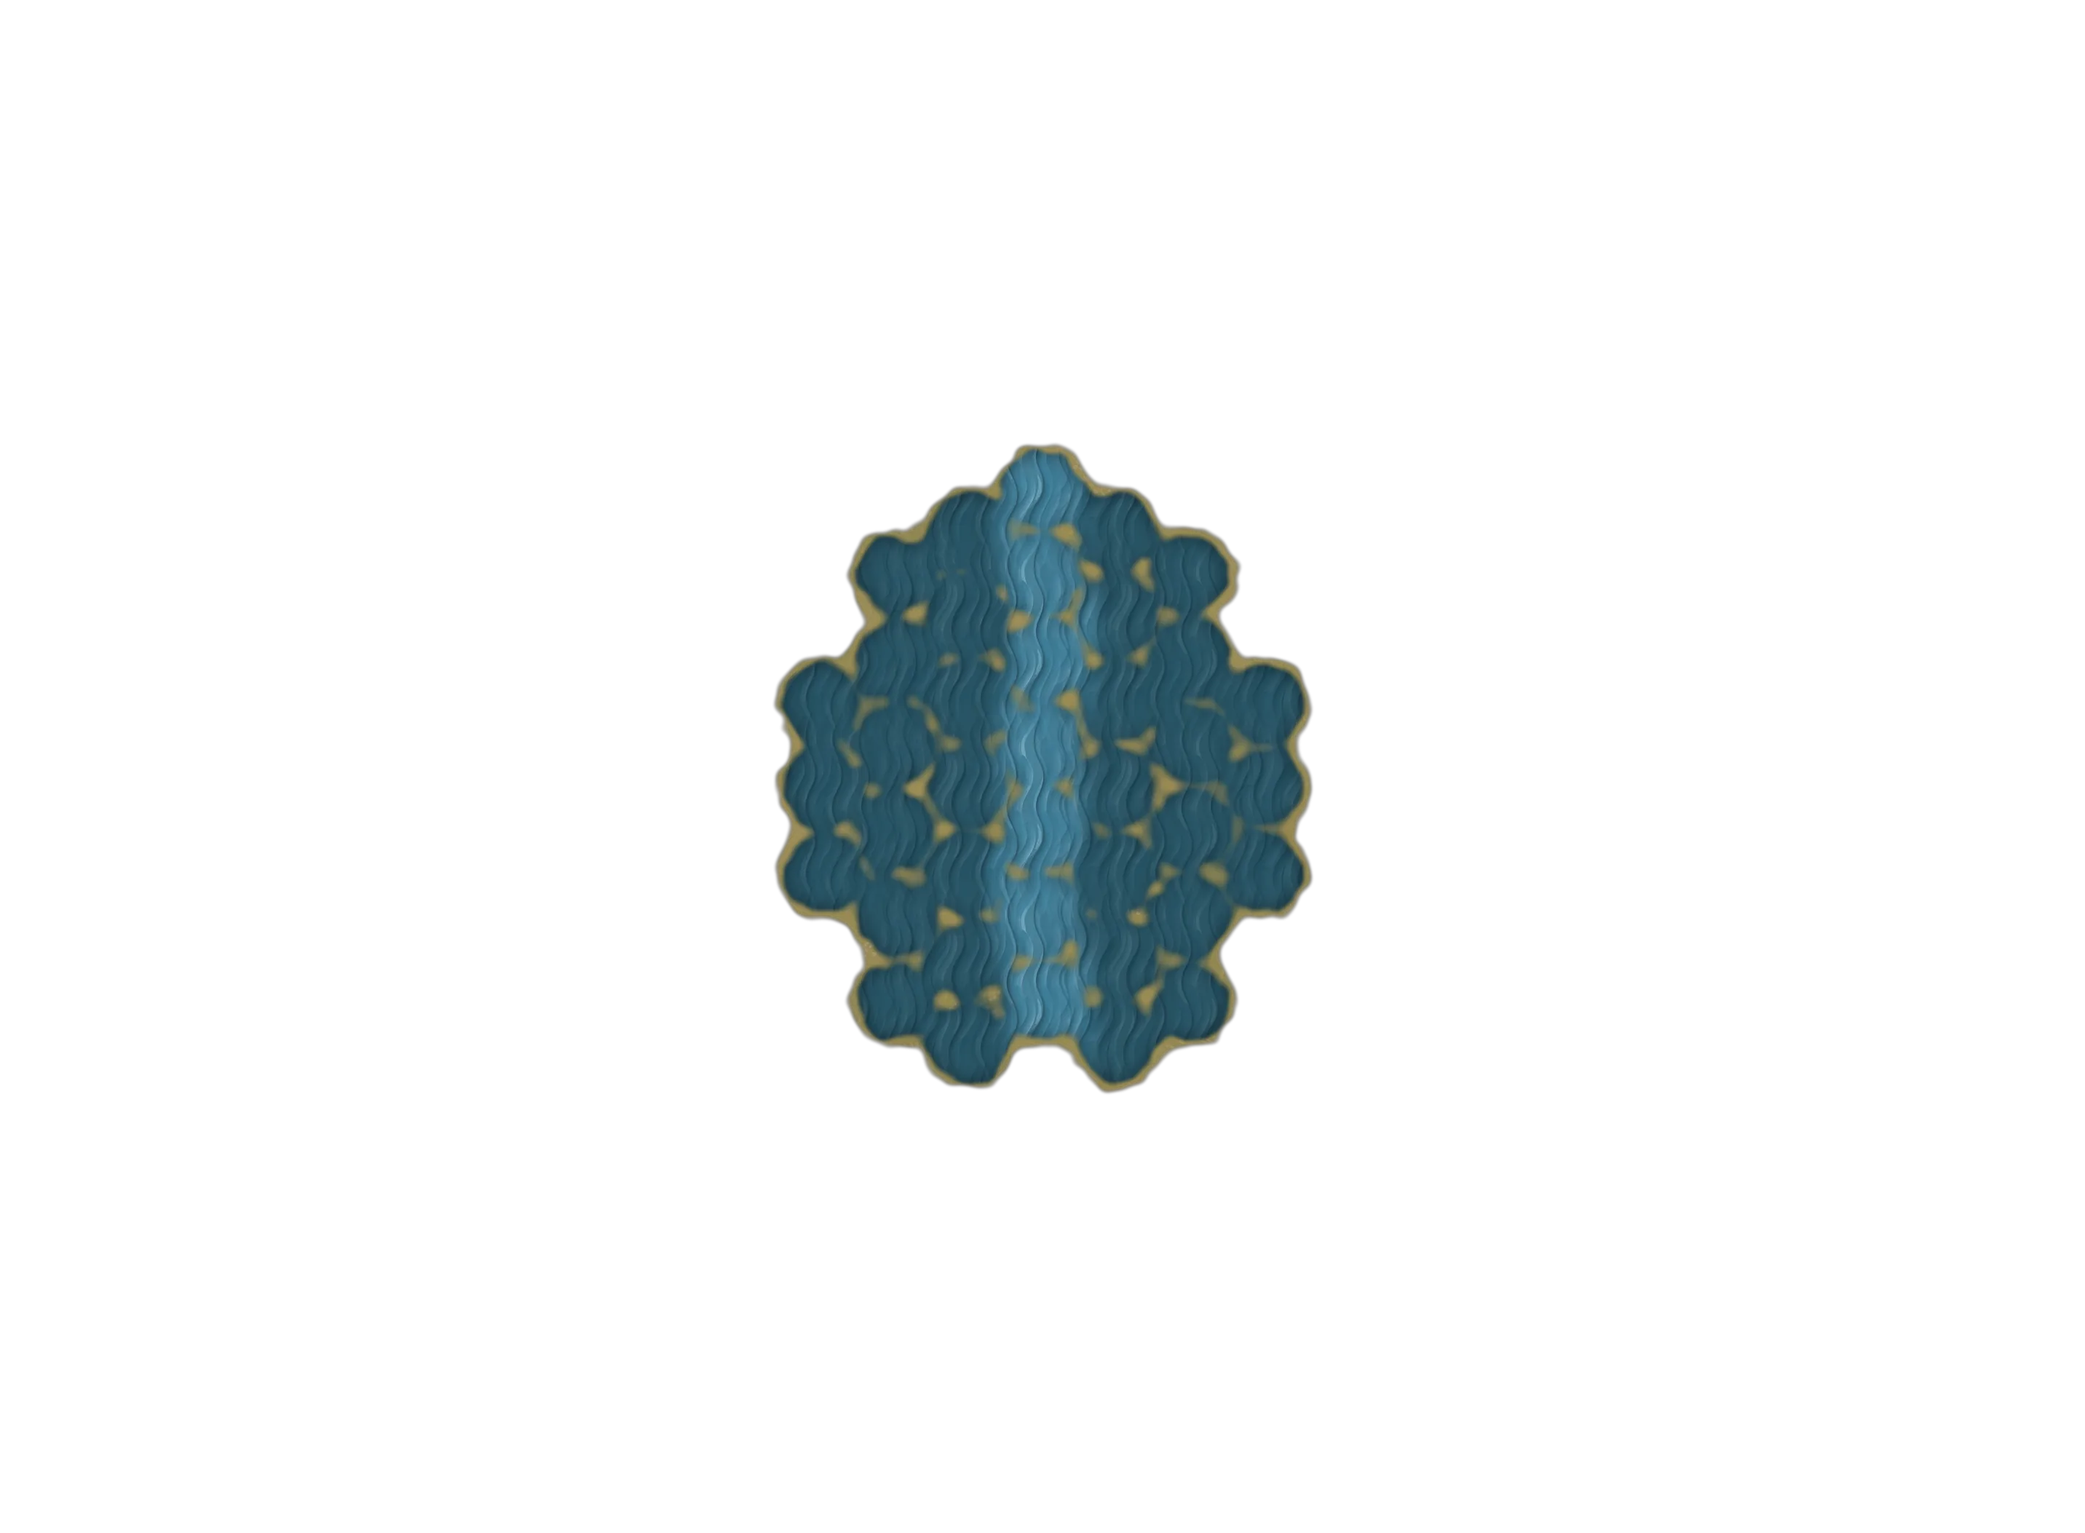
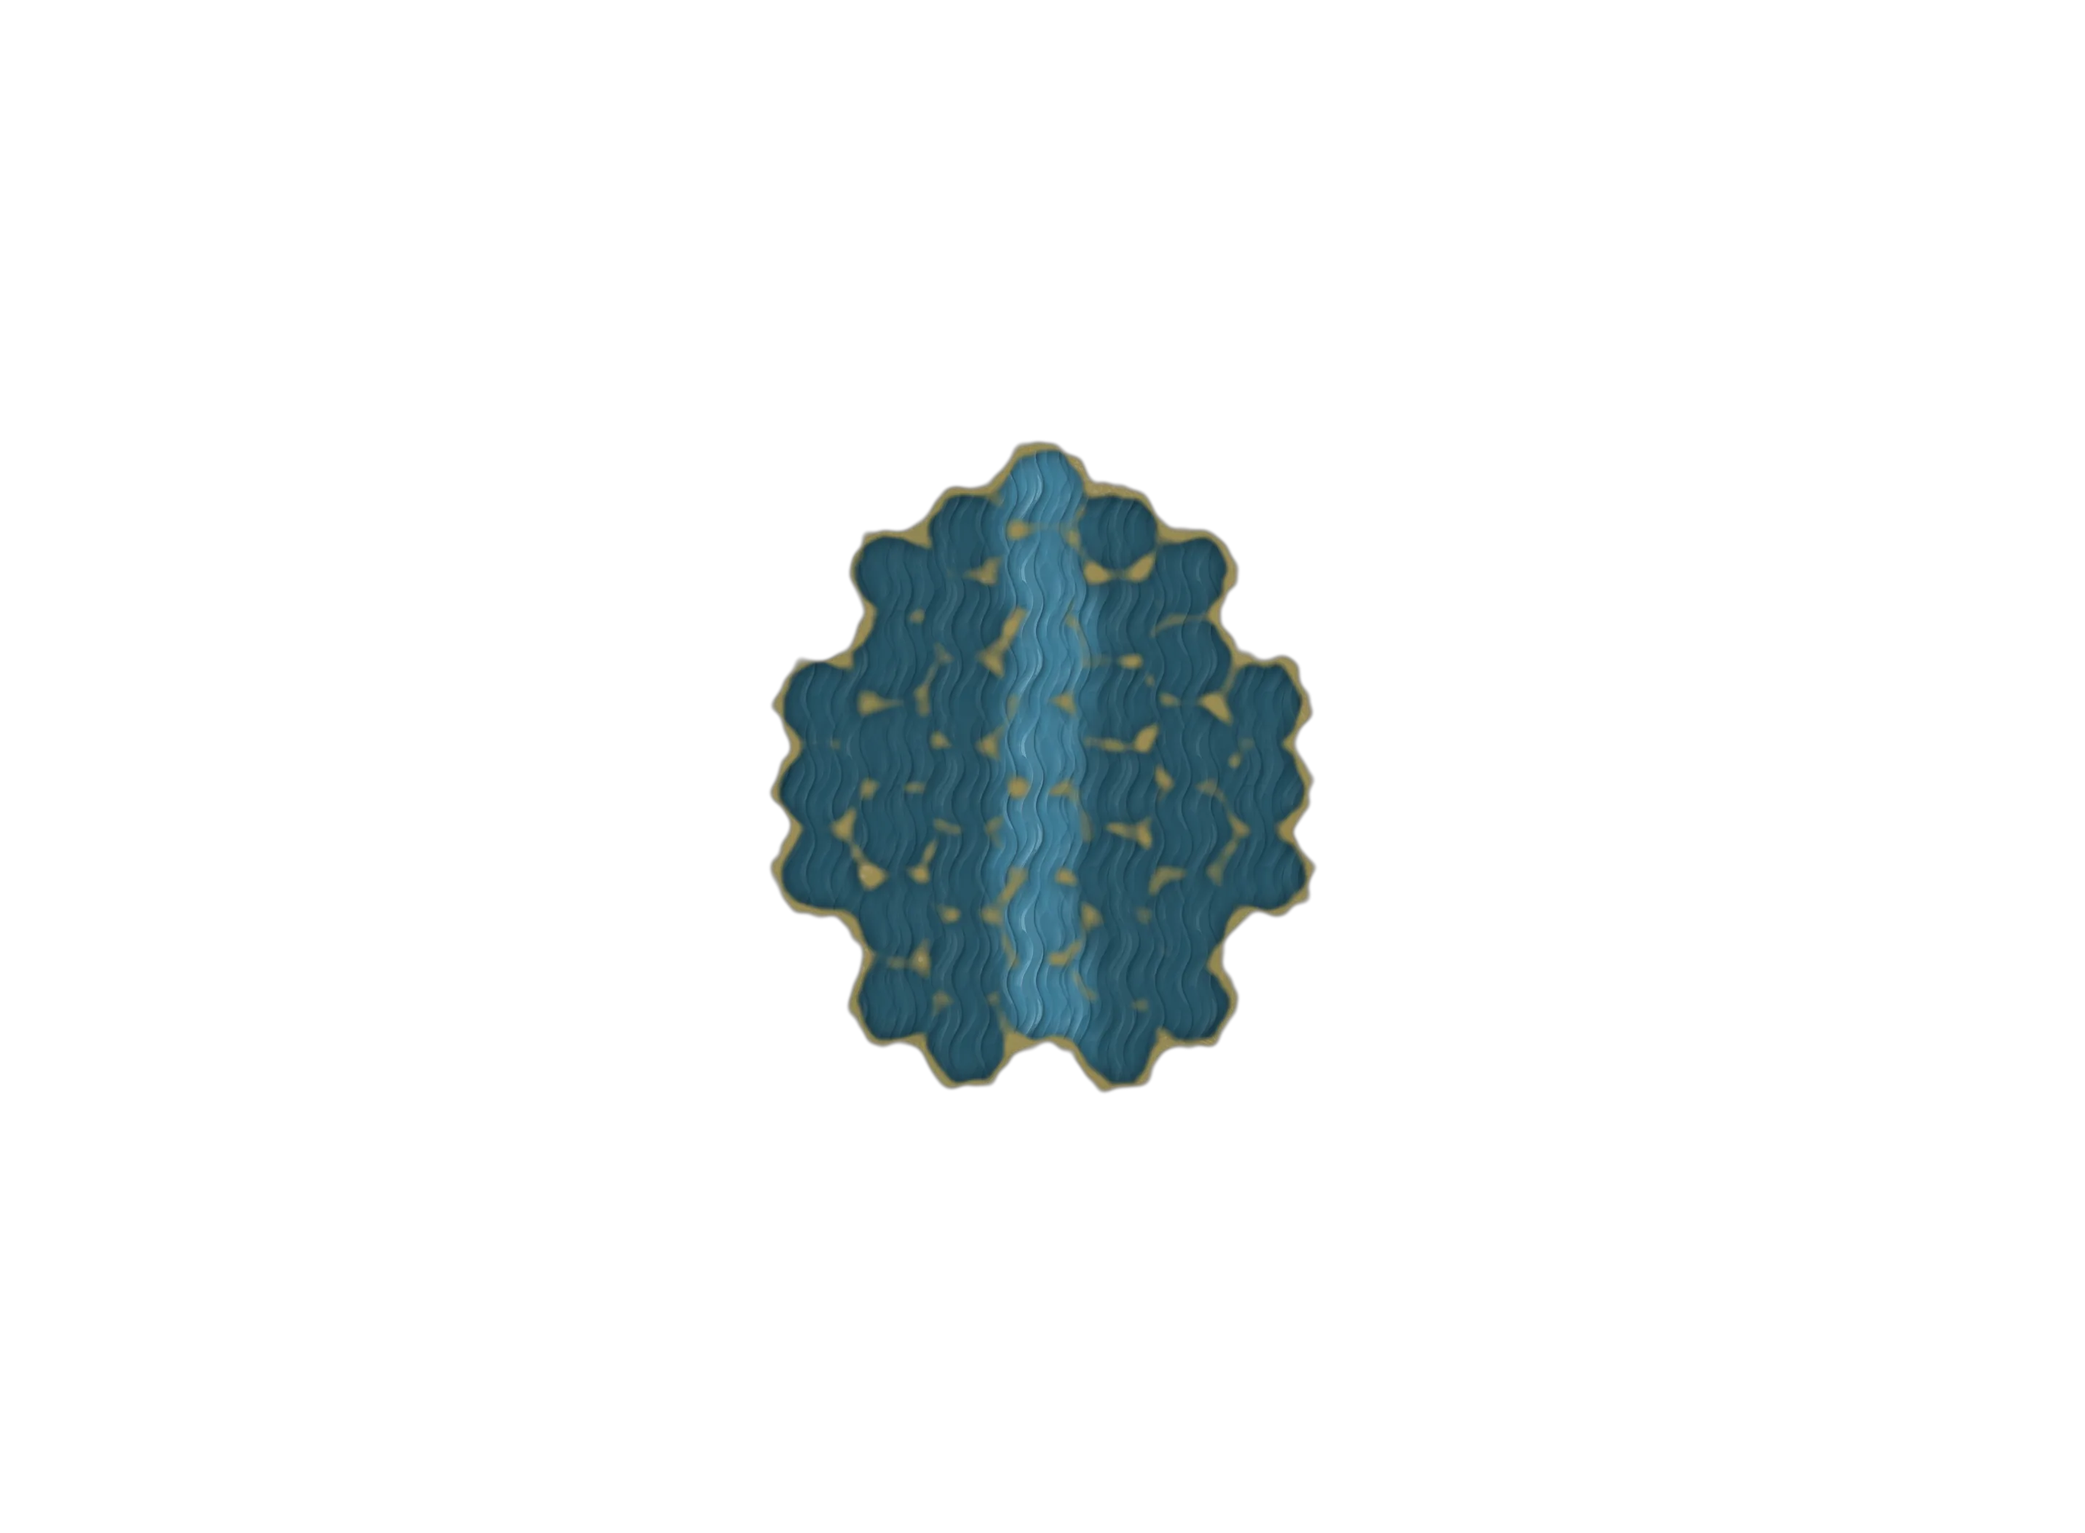
Large board option (33 x 19) for every map; new painted textures for high ground and bog

diff --git a/src/ui/board.ts b/src/ui/board.ts
@@ -13,8 +13,21 @@ import { armyColor, healthBar, unitSymbol } from './symbols';
 
 const S = 34; // hex radius in SVG units
 const R3 = Math.sqrt(3);
-const W = S * 1.5 * (CONFIG.board.cols - 1) + 2 * S;
-const H = R3 * S * (CONFIG.board.rows + 0.5);
+/** The flat map's size in units; follows the board size (standard 25 x 15, large 33 x 19). */
+let W = 0;
+let H = 0;
+let sizedFor = '';
+function syncSize() {
+  const k = `${CONFIG.board.cols}x${CONFIG.board.rows}`;
+  if (k === sizedFor) return;
+  sizedFor = k;
+  W = S * 1.5 * (CONFIG.board.cols - 1) + 2 * S;
+  H = R3 * S * (CONFIG.board.rows + 0.5);
+}
+syncSize();
+/** The bigger board has its own paintings (*-large.webp). */
+const LARGE = () => CONFIG.board.cols > 25;
+const SUF = () => (LARGE() ? '-large' : '');
 
 /** A real perspective camera over the board, like a 3D program. It looks at a point on the
  *  ground (`x`, `y` in flat map units, null = the board's middle), orbits that point (`yaw`,
@@ -60,12 +73,13 @@ interface Lens {
 }
 
 /** Flat map size for this orientation (portrait turns the map 90°). */
-export const mapSize = (portrait: boolean): Pt => (portrait ? [H, W] : [W, H]);
+export const mapSize = (portrait: boolean): Pt => (syncSize(), portrait ? [H, W] : [W, H]);
 
 /** Camera tilt: 0° looks straight down, up to 76° looks almost across the table. */
 const tiltAngle = (v: View) => (v.tilt ? (76 * v.cam.pitch * Math.PI) / 180 : 0);
 
 function lens(v: View): Lens {
+  syncSize();
   const [fw, fh] = mapSize(v.portrait);
   const radius = Math.hypot(fw, fh) / 2;
   const tx = v.cam.x ?? fw / 2;
@@ -118,10 +132,10 @@ function lens(v: View): Lens {
 // One picture of the whole board (grass, river, bridges, forest shade, the table around it), made by _art/map_build.py.
 // It covers the flat map plus GROUND_M units all round and is laid under the hexes with the camera's own projection.
 const GROUND_M = 70;
-export const GROUND_URL = `${import.meta.env.BASE_URL}map/ground.webp?v=11`;
+export const groundUrl = () => `${import.meta.env.BASE_URL}map/ground${SUF()}.webp?v=11`;
 /** Close-up grass (grass-detail.webp, one seamless tile): where the field lies in the ground picture, in map units. */
 export const DETAIL_URL = `${import.meta.env.BASE_URL}map/grass-detail.webp?v=1`;
-export const DETAIL_BOX = [58, 58, 1316, 937];
+export const detailBox = (): number[] => (syncSize(), [GROUND_M - 12, GROUND_M - 12, W + 24, H + 24]);
 /** The river, each bridge and each ford are their own pictures laid over the ground, so every map places its own.
  *  Positions and sizes are in the ground picture's own units (map units, origin at the picture's top left). */
 export interface GroundPart { key: string; src: string; x: number; y: number; w: number; h: number }
@@ -129,11 +143,13 @@ const PART = (name: string) => `${import.meta.env.BASE_URL}map/${name}.webp?v=1`
 export function groundParts(b: GameConfig['board']): GroundPart[] {
   const out: GroundPart[] = [];
   // Hills, swamps and lakes are painted per map as one see-through picture the size of the ground.
-  if (b.overlay) out.push({ key: `over-${b.overlay}`, src: PART(`over-${b.overlay}`), x: 0, y: 0, w: GROUND_SIZE[0], h: GROUND_SIZE[1] });
+  syncSize();
+  const [gw, gh] = groundSize();
+  if (b.overlay) out.push({ key: `over-${b.overlay}${SUF()}`, src: PART(`over-${b.overlay}${SUF()}`), x: 0, y: 0, w: gw, h: gh });
   const rivers = [...(b.riverCol === null ? [] : [{ col: b.riverCol, bridges: b.bridgeRows, fords: b.fordRows ?? [] }]), ...(b.rivers ?? [])];
   for (const rv of rivers) {
     // The river picture was painted for column 12; other columns slide it sideways.
-    out.push({ key: `river${rv.col}`, src: PART('river'), x: 669.5 + (rv.col - 12) * 1.5 * S, y: 0, w: 94, h: 1053 });
+    out.push({ key: `river${rv.col}${SUF()}`, src: PART(`river${SUF()}`), x: S * 1.5 * rv.col + S + GROUND_M - 47, y: 0, w: 94, h: gh });
     const at = (row: number, w: number, h: number): [number, number] => [S * 1.5 * rv.col + S + GROUND_M - w / 2, R3 * S * (row + 0.5 * (rv.col & 1)) + (R3 / 2) * S + GROUND_M - h / 2];
     for (const r of rv.fords) {
       const [x, y] = at(r, 94, 56);
@@ -147,7 +163,7 @@ export function groundParts(b: GameConfig['board']): GroundPart[] {
   return out;
 }
 /** The picture's size in map units (its CSS size before the camera's transform). */
-export const GROUND_SIZE: Pt = [W + 2 * GROUND_M, H + 2 * GROUND_M];
+export const groundSize = (): Pt => (syncSize(), [W + 2 * GROUND_M, H + 2 * GROUND_M]);
 /** Carved trees, each drawn from 8 directions (tree-<kind>-<direction>.webp); picture size in pixels, trunk foot at bottom centre. */
 const TREE_KINDS: [string, Pt][] = [['pine', [150, 301]], ['spruce', [126, 285]], ['oak', [198, 251]]];
 const DIRS8 = ['front', 'front-left', 'left', 'back-left', 'back', 'back-right', 'right', 'front-right'];
@@ -197,7 +213,7 @@ let groundReady = false;
 /** Starts loading the painted ground and trees; `done` runs once they can be drawn. Until then the plain board shows. */
 export function loadGround(done: () => void) {
   if (typeof Image === 'undefined') return;
-  const all = [GROUND_URL, PART('river'), PART('bridge'), PART('ford'), ...TREE_KINDS.flatMap(([k]) => DIRS8.map((d) => TREE_URL(k, d))), ...PROPS.map((_, i) => PROP_URL(i))].map((src) => {
+  const all = [groundUrl(), PART('river'), PART('bridge'), PART('ford'), ...TREE_KINDS.flatMap(([k]) => DIRS8.map((d) => TREE_URL(k, d))), ...PROPS.map((_, i) => PROP_URL(i))].map((src) => {
     const im = new Image();
     im.src = src;
     KEEP.push(im);
@@ -211,6 +227,7 @@ export const hasGround = () => groundReady;
 export function groundTransform(v: View): string {
   const m = lens(v).h;
   // Picture point -> flat map point: shift by the margin; portrait turns the map a quarter turn.
+  syncSize();
   const P = v.portrait ? [0, 1, -GROUND_M, -1, 0, W + GROUND_M, 0, 0, 1] : [1, 0, -GROUND_M, 0, 1, -GROUND_M, 0, 0, 1];
   const a = [0, 1, 2].flatMap((r) => [0, 1, 2].map((c) => m[r * 3] * P[c] + m[r * 3 + 1] * P[3 + c] + m[r * 3 + 2] * P[6 + c]));
   const n = a.map((x) => x / a[8]);
@@ -228,6 +245,7 @@ export const hexOnMap = (h: Hex, v: Pick<View, 'portrait'>): Pt => flat(h, v as 
 
 /** Centre of a hex on the flat map. Portrait turns the map so Red's edge is at the bottom. */
 function flat(h: Hex, v: View): Pt {
+  syncSize();
   const x = S * 1.5 * h.col + S;
   const y = R3 * S * (h.row + 0.5 * (h.col & 1)) + (R3 / 2) * S;
   return v.portrait ? [y, W - x] : [x, y];

diff --git a/src/ui/main.ts b/src/ui/main.ts
@@ -49,7 +49,7 @@ import {
   type Result,
   type Session,
 } from '../engine';
-import { ARROW_S, GROUND_SIZE, GROUND_URL, NO_EFFECTS, STEP_MS, groundTransform, hasGround, groundParts, DETAIL_BOX, DETAIL_URL, hexOnMap, loadGround, mapSize, renderBoard, screenToGround, viewCube, type Camera, type Effects, type Overlay } from './board';
+import { ARROW_S, groundSize, groundUrl, NO_EFFECTS, STEP_MS, groundTransform, hasGround, groundParts, detailBox, DETAIL_URL, hexOnMap, loadGround, mapSize, renderBoard, screenToGround, viewCube, type Camera, type Effects, type Overlay } from './board';
 import { errorText, logText, playerName, reasonText, t, unitName, type Key, type Lang } from './i18n';
 import { unitIcon } from './symbols';
 import { ERAS, ERA_OF, FACTIONS, FACTION_ORDER, factionOf, rosterOf, sides, type FactionId } from './factions';
@@ -102,7 +102,8 @@ function loadGame(): Saved | null {
     if (!raw) return null;
     const saved = JSON.parse(raw) as Saved;
     const ok = saved?.state?.phase && Array.isArray(saved.state.units) && saved.state.reserve && 'advance' in saved.state;
-    const sameBoard = saved.board?.[0] === CONFIG.board.cols && saved.board?.[1] === CONFIG.board.rows;
+    const want = saved.settings?.size === 'large' ? [33, 19] : [25, 15];
+    const sameBoard = saved.board?.[0] === want[0] && saved.board?.[1] === want[1];
     return ok && sameBoard ? saved : null;
   } catch {
     return null;
@@ -833,6 +834,8 @@ function setupScreen(): string {
       ${seg('budget', [['20', `20 <small>${t(lang, 'skirmish')}</small>`], ['30', '30'], ['50', '50'], ['80', `80 <small>${t(lang, 'epic')}</small>`]], String(settings.budget))}
 
       <h3>${t(lang, 'pointsEachTurn')}</h3>
+      <h3>${t(lang, 'boardSize')}</h3>
+      ${seg('size', [['standard', t(lang, 'sizeStandard')], ['large', t(lang, 'sizeLarge')]], settings.size ?? 'standard')}
       ${seg('dice', [['1d6', t(lang, 'dice1')], ['2d6', t(lang, 'dice2')], ['3d6', t(lang, 'dice3')], ['fixed', `${t(lang, 'always')} ${fixedPoints(settings)}`]], settings.dice)}
 
       <h3>${t(lang, 'rules')}</h3>
@@ -1065,13 +1068,16 @@ function placeGround() {
   if (!wrap) return;
   if (!groundEl) {
     groundEl = new Image();
-    groundEl.src = GROUND_URL;
+    groundEl.src = groundUrl();
     groundEl.className = 'ground';
     groundEl.alt = '';
     groundEl.draggable = false;
-    groundEl.width = GROUND_SIZE[0];
-    groundEl.height = GROUND_SIZE[1];
   }
+  // The board size can change between battles; the ground picture follows it.
+  const [gw, gh] = groundSize();
+  if (!groundEl.src.endsWith(groundUrl().replace(/^\//, ''))) groundEl.src = groundUrl();
+  if (groundEl.width !== gw) groundEl.width = gw;
+  if (groundEl.height !== gh) groundEl.height = gh;
   let clip = wrap.querySelector<HTMLElement>('.ground-clip');
   if (!clip) {
     clip = document.createElement('div');
@@ -1090,7 +1096,10 @@ function placeGround() {
     detail.style.backgroundImage = `url(${DETAIL_URL})`;
     groundEl.after(detail);
   }
-  detail.style.transform = `${T} translate(${DETAIL_BOX[0]}px, ${DETAIL_BOX[1]}px)`;
+  const db = detailBox();
+  detail.style.width = `${db[2]}px`;
+  detail.style.height = `${db[3]}px`;
+  detail.style.transform = `${T} translate(${db[0]}px, ${db[1]}px)`;
   detail.style.opacity = String(Math.max(0, Math.min(0.8, (cam.zoom - 2) / 3.5)).toFixed(2));
   // The river, bridges and fords of this map, laid over the ground with the same projection.
   const parts = groundParts(CONFIG.board);
@@ -1684,6 +1693,7 @@ app.addEventListener('click', (e) => {
       const value = btn!.getAttribute('data-value')!;
       if (field === 'budget') settings = { ...settings, budget: Number(value) };
       if (field === 'map') settings = { ...settings, map: value as MapId };
+      if (field === 'size') settings = { ...settings, size: value === 'large' ? 'large' : 'standard' };
       if (field === 'dice') settings = { ...settings, dice: value as DiceId };
       return render();
     }

diff --git a/src/ui/settings.ts b/src/ui/settings.ts
@@ -13,6 +13,8 @@ export type DiceId = '1d6' | '3d6' | '2d6' | 'fixed';
 export interface Settings {
   budget: number;
   map: MapId;
+  /** Standard 25 x 15 hexes, or a larger 33 x 19 board for big battles. */
+  size?: 'standard' | 'large';
   dice: DiceId;
   options: GameConfig['options'];
   /** The faction each side leads (Novgorod side moves first). */
@@ -128,10 +130,34 @@ export function boardFor(map: MapId): GameConfig['board'] {
   return structuredClone(ORIGINAL);
 }
 
+/** The large board (33 x 19): every hex takes the terrain of the nearest standard-board hex, rivers move to their
+ *  matching column and bridges and fords to their matching row. _art/map_build.py paints it with the same rule. */
+const LARGE: [number, number] = [33, 19];
+export function enlargeBoard(b: GameConfig['board']): GameConfig['board'] {
+  const [C, R] = LARGE;
+  const back = (c: number, r: number) => `${Math.floor((c * (b.cols - 1)) / (C - 1) + 0.5)},${Math.floor((r * (b.rows - 1)) / (R - 1) + 0.5)}`;
+  const area = (cells?: [number, number][]) => {
+    if (!cells) return undefined;
+    const want = new Set(cells.map(([c, r]) => `${c},${r}`));
+    const out: [number, number][] = [];
+    for (let c = 0; c < C; c++) for (let r = 0; r < R; r++) if (want.has(back(c, r))) out.push([c, r]);
+    return out;
+  };
+  const col = (c: number) => Math.round((c * (C - 1)) / (b.cols - 1));
+  const row = (r: number) => Math.round((r * (R - 1)) / (b.rows - 1));
+  const rivers = [...(b.riverCol === null ? [] : [{ col: b.riverCol, bridges: b.bridgeRows, fords: b.fordRows ?? [] }]), ...(b.rivers ?? [])].map((rv) => ({ col: col(rv.col), bridges: rv.bridges.map(row), fords: rv.fords.map(row) }));
+  // Forest keeps its clumps: each standard forest hex becomes the large hexes nearest it (rivers win over trees).
+  const riverCols = new Set(rivers.map((rv) => rv.col));
+  const forests = (area(b.forests) ?? []).filter(([c]) => !riverCols.has(c));
+  return { ...b, cols: C, rows: R, riverCol: null, bridgeRows: [], fordRows: [], rivers, forests, hills: area(b.hills), swamps: area(b.swamps), lakes: area(b.lakes) };
+}
+
 /** Puts the settings into the game's rules. Call before starting or loading a battle. */
 export function applySettings(s: Settings) {
   CONFIG.army.budget = s.budget;
-  CONFIG.board = boardFor(s.map);
+  CONFIG.board = s.size === 'large' ? enlargeBoard(boardFor(s.map)) : boardFor(s.map);
+  // A bigger board leaves more room to set up.
+  CONFIG.deploy.depth = s.size === 'large' ? 7 : 5;
   CONFIG.dice =
     s.dice === 'fixed' ? { count: 0, sides: 6, fixed: fixedPoints(s) }
     : s.dice === '1d6' ? { count: 1, sides: 6, fixed: null }

diff --git a/src/ui/style.css b/src/ui/style.css
@@ -392,7 +392,7 @@ button:focus-visible { outline: 3px solid var(--gold); outline-offset: 2px; }
 
 /* Map tiles with a small picture of each map. */
 .mtiles { display: grid; grid-template-columns: repeat(3, 1fr); gap: 8px; }
-.gdetail { position: absolute; left: 0; top: 0; width: 1316px; height: 937px; border-radius: 12px; background-size: 150px auto; transform-origin: 0 0; will-change: transform, opacity; pointer-events: none; }
+.gdetail { position: absolute; left: 0; top: 0; border-radius: 12px; background-size: 150px auto; transform-origin: 0 0; will-change: transform, opacity; pointer-events: none; }
 .gpart { position: absolute; left: 0; top: 0; max-width: none; transform-origin: 0 0; will-change: transform; user-select: none; -webkit-user-select: none; }
 .era { margin: 12px 0 0; font: 700 11px/1 'PT Sans', sans-serif; letter-spacing: .08em; text-transform: uppercase; color: var(--muted); }
 .era + .ftiles { margin-top: 6px; }

diff --git a/src/ui/i18n.ts b/src/ui/i18n.ts
@@ -129,6 +129,9 @@ const STR = {
     mapForest: 'Густой лес',
     mapRandom: 'Случайная',
     mapFords: 'Два брода',
+    boardSize: 'Размер поля',
+    sizeStandard: 'Обычное',
+    sizeLarge: 'Большое',
     mapIsland: 'Остров',
     mapLongwood: 'Долгий лес',
     mapNoford: 'Ничейный брод',
@@ -348,6 +351,9 @@ const STR = {
     mapForest: 'Great forest',
     mapRandom: 'Random',
     mapFords: 'Two fords',
+    boardSize: 'Board size',
+    sizeStandard: 'Standard',
+    sizeLarge: 'Large',
     mapIsland: 'The island',
     mapLongwood: 'The long wood',
     mapNoford: "No man's ford",
